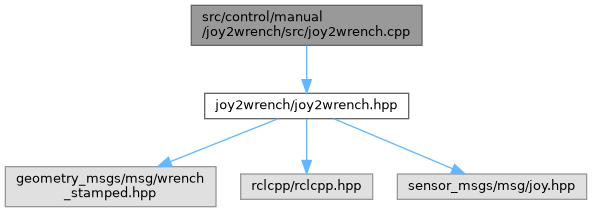
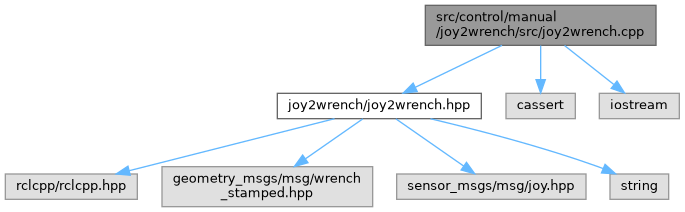
Deploying to gh-pages from @ KyutechUnderWater/kyubic_ros@17a0cab6ebb95fa2d6a1de0d51192da1adee22a0 🚀

diff --git a/joy2wrench_8hpp_source.html b/joy2wrench_8hpp_source.html
@@ -77,32 +77,36 @@ $(function() {
   <div class="headertitle"><div class="title">joy2wrench.hpp</div></div>
 </div><!--header-->
 <div class="contents">
-<a href="joy2wrench_8hpp.html">Go to the documentation of this file.</a><div class="fragment"><div class="line"><a id="l00001" name="l00001"></a><span class="lineno">    1</span><span class="preprocessor">#include &lt;geometry_msgs/msg/wrench_stamped.hpp&gt;</span></div>
-<div class="line"><a id="l00002" name="l00002"></a><span class="lineno">    2</span><span class="preprocessor">#include &lt;rclcpp/rclcpp.hpp&gt;</span></div>
-<div class="line"><a id="l00003" name="l00003"></a><span class="lineno">    3</span><span class="preprocessor">#include &lt;sensor_msgs/msg/joy.hpp&gt;</span></div>
-<div class="line"><a id="l00004" name="l00004"></a><span class="lineno">    4</span> </div>
-<div class="line"><a id="l00005" name="l00005"></a><span class="lineno"><a class="line" href="namespacejoy2wrench.html">    5</a></span><span class="keyword">namespace </span><a class="code hl_namespace" href="namespacejoy2wrench.html">joy2wrench</a></div>
-<div class="line"><a id="l00006" name="l00006"></a><span class="lineno">    6</span>{</div>
+<a href="joy2wrench_8hpp.html">Go to the documentation of this file.</a><div class="fragment"><div class="line"><a id="l00001" name="l00001"></a><span class="lineno">    1</span><span class="preprocessor">#include &lt;rclcpp/rclcpp.hpp&gt;</span></div>
+<div class="line"><a id="l00002" name="l00002"></a><span class="lineno">    2</span> </div>
+<div class="line"><a id="l00003" name="l00003"></a><span class="lineno">    3</span><span class="preprocessor">#include &lt;geometry_msgs/msg/wrench_stamped.hpp&gt;</span></div>
+<div class="line"><a id="l00004" name="l00004"></a><span class="lineno">    4</span><span class="preprocessor">#include &lt;sensor_msgs/msg/joy.hpp&gt;</span></div>
+<div class="line"><a id="l00005" name="l00005"></a><span class="lineno">    5</span> </div>
+<div class="line"><a id="l00006" name="l00006"></a><span class="lineno">    6</span><span class="preprocessor">#include &lt;string&gt;</span></div>
 <div class="line"><a id="l00007" name="l00007"></a><span class="lineno">    7</span> </div>
-<div class="line"><a id="l00008" name="l00008"></a><span class="lineno"><a class="line" href="classjoy2wrench_1_1Joy2WrenchStamped.html">    8</a></span><span class="keyword">class </span><a class="code hl_class" href="classjoy2wrench_1_1Joy2WrenchStamped.html">Joy2WrenchStamped</a> : <span class="keyword">public</span> rclcpp::Node</div>
+<div class="line"><a id="l00008" name="l00008"></a><span class="lineno"><a class="line" href="namespacejoy2wrench.html">    8</a></span><span class="keyword">namespace </span><a class="code hl_namespace" href="namespacejoy2wrench.html">joy2wrench</a></div>
 <div class="line"><a id="l00009" name="l00009"></a><span class="lineno">    9</span>{</div>
-<div class="line"><a id="l00010" name="l00010"></a><span class="lineno">   10</span><span class="keyword">public</span>:</div>
-<div class="line"><a id="l00011" name="l00011"></a><span class="lineno">   11</span>  <span class="keyword">explicit</span> <a class="code hl_function" href="classjoy2wrench_1_1Joy2WrenchStamped.html#ade041bef2d62d58504687bfd9a299675">Joy2WrenchStamped</a>();</div>
-<div class="line"><a id="l00012" name="l00012"></a><span class="lineno">   12</span> </div>
-<div class="line"><a id="l00013" name="l00013"></a><span class="lineno">   13</span><span class="keyword">private</span>:</div>
-<div class="line"><a id="l00014" name="l00014"></a><span class="lineno">   14</span>  <span class="keywordtype">double</span> force_scale;</div>
-<div class="line"><a id="l00015" name="l00015"></a><span class="lineno">   15</span>  <span class="keywordtype">double</span> torque_scale;</div>
-<div class="line"><a id="l00016" name="l00016"></a><span class="lineno">   16</span> </div>
-<div class="line"><a id="l00017" name="l00017"></a><span class="lineno">   17</span>  rclcpp::Publisher&lt;geometry_msgs::msg::WrenchStamped&gt;::SharedPtr pub_;</div>
-<div class="line"><a id="l00018" name="l00018"></a><span class="lineno">   18</span>  rclcpp::Subscription&lt;sensor_msgs::msg::Joy&gt;::SharedPtr sub_;</div>
-<div class="line"><a id="l00019" name="l00019"></a><span class="lineno">   19</span> </div>
-<div class="line"><a id="l00020" name="l00020"></a><span class="lineno">   20</span>  <span class="keywordtype">void</span> _joyCallback(<span class="keyword">const</span> sensor_msgs::msg::Joy::SharedPtr msg);</div>
-<div class="line"><a id="l00021" name="l00021"></a><span class="lineno">   21</span>};</div>
-<div class="line"><a id="l00022" name="l00022"></a><span class="lineno">   22</span> </div>
-<div class="line"><a id="l00023" name="l00023"></a><span class="lineno">   23</span>}  <span class="comment">// namespace joy2wrench</span></div>
-<div class="ttc" id="aclassjoy2wrench_1_1Joy2WrenchStamped_html"><div class="ttname"><a href="classjoy2wrench_1_1Joy2WrenchStamped.html">joy2wrench::Joy2WrenchStamped</a></div><div class="ttdef"><b>Definition:</b> joy2wrench.hpp:9</div></div>
-<div class="ttc" id="aclassjoy2wrench_1_1Joy2WrenchStamped_html_ade041bef2d62d58504687bfd9a299675"><div class="ttname"><a href="classjoy2wrench_1_1Joy2WrenchStamped.html#ade041bef2d62d58504687bfd9a299675">joy2wrench::Joy2WrenchStamped::Joy2WrenchStamped</a></div><div class="ttdeci">Joy2WrenchStamped()</div><div class="ttdef"><b>Definition:</b> joy2wrench.cpp:7</div></div>
-<div class="ttc" id="anamespacejoy2wrench_html"><div class="ttname"><a href="namespacejoy2wrench.html">joy2wrench</a></div><div class="ttdef"><b>Definition:</b> joy2wrench.hpp:6</div></div>
+<div class="line"><a id="l00010" name="l00010"></a><span class="lineno">   10</span> </div>
+<div class="line"><a id="l00011" name="l00011"></a><span class="lineno"><a class="line" href="classjoy2wrench_1_1Joy2WrenchStamped.html">   11</a></span><span class="keyword">class </span><a class="code hl_class" href="classjoy2wrench_1_1Joy2WrenchStamped.html">Joy2WrenchStamped</a> : <span class="keyword">public</span> rclcpp::Node</div>
+<div class="line"><a id="l00012" name="l00012"></a><span class="lineno">   12</span>{</div>
+<div class="line"><a id="l00013" name="l00013"></a><span class="lineno">   13</span><span class="keyword">public</span>:</div>
+<div class="line"><a id="l00014" name="l00014"></a><span class="lineno">   14</span>  <span class="keyword">explicit</span> <a class="code hl_function" href="classjoy2wrench_1_1Joy2WrenchStamped.html#ade041bef2d62d58504687bfd9a299675">Joy2WrenchStamped</a>();</div>
+<div class="line"><a id="l00015" name="l00015"></a><span class="lineno">   15</span> </div>
+<div class="line"><a id="l00016" name="l00016"></a><span class="lineno">   16</span><span class="keyword">private</span>:</div>
+<div class="line"><a id="l00017" name="l00017"></a><span class="lineno">   17</span>  std::string device_name;</div>
+<div class="line"><a id="l00018" name="l00018"></a><span class="lineno">   18</span>  <span class="keywordtype">double</span> force_scale;</div>
+<div class="line"><a id="l00019" name="l00019"></a><span class="lineno">   19</span>  <span class="keywordtype">double</span> torque_scale;</div>
+<div class="line"><a id="l00020" name="l00020"></a><span class="lineno">   20</span> </div>
+<div class="line"><a id="l00021" name="l00021"></a><span class="lineno">   21</span>  rclcpp::Publisher&lt;geometry_msgs::msg::WrenchStamped&gt;::SharedPtr pub_;</div>
+<div class="line"><a id="l00022" name="l00022"></a><span class="lineno">   22</span>  rclcpp::Subscription&lt;sensor_msgs::msg::Joy&gt;::SharedPtr sub_;</div>
+<div class="line"><a id="l00023" name="l00023"></a><span class="lineno">   23</span> </div>
+<div class="line"><a id="l00024" name="l00024"></a><span class="lineno">   24</span>  <span class="keywordtype">void</span> _joyCallback(<span class="keyword">const</span> sensor_msgs::msg::Joy::SharedPtr msg);</div>
+<div class="line"><a id="l00025" name="l00025"></a><span class="lineno">   25</span>};</div>
+<div class="line"><a id="l00026" name="l00026"></a><span class="lineno">   26</span> </div>
+<div class="line"><a id="l00027" name="l00027"></a><span class="lineno">   27</span>}  <span class="comment">// namespace joy2wrench</span></div>
+<div class="ttc" id="aclassjoy2wrench_1_1Joy2WrenchStamped_html"><div class="ttname"><a href="classjoy2wrench_1_1Joy2WrenchStamped.html">joy2wrench::Joy2WrenchStamped</a></div><div class="ttdef"><b>Definition:</b> joy2wrench.hpp:12</div></div>
+<div class="ttc" id="aclassjoy2wrench_1_1Joy2WrenchStamped_html_ade041bef2d62d58504687bfd9a299675"><div class="ttname"><a href="classjoy2wrench_1_1Joy2WrenchStamped.html#ade041bef2d62d58504687bfd9a299675">joy2wrench::Joy2WrenchStamped::Joy2WrenchStamped</a></div><div class="ttdeci">Joy2WrenchStamped()</div><div class="ttdef"><b>Definition:</b> joy2wrench.cpp:10</div></div>
+<div class="ttc" id="anamespacejoy2wrench_html"><div class="ttname"><a href="namespacejoy2wrench.html">joy2wrench</a></div><div class="ttdef"><b>Definition:</b> joy2wrench.hpp:9</div></div>
 </div><!-- fragment --></div><!-- contents -->
 <!-- start footer part -->
 <hr class="footer"/><address class="footer"><small>

diff --git a/joy2wrench_8hpp.html b/joy2wrench_8hpp.html
@@ -80,18 +80,20 @@ $(function() {
   <div class="headertitle"><div class="title">joy2wrench.hpp File Reference</div></div>
 </div><!--header-->
 <div class="contents">
-<div class="textblock"><code>#include &lt;geometry_msgs/msg/wrench_stamped.hpp&gt;</code><br />
-<code>#include &lt;rclcpp/rclcpp.hpp&gt;</code><br />
+<div class="textblock"><code>#include &lt;rclcpp/rclcpp.hpp&gt;</code><br />
+<code>#include &lt;geometry_msgs/msg/wrench_stamped.hpp&gt;</code><br />
 <code>#include &lt;sensor_msgs/msg/joy.hpp&gt;</code><br />
+<code>#include &lt;string&gt;</code><br />
 </div><div class="textblock"><div class="dynheader">
 Include dependency graph for joy2wrench.hpp:</div>
 <div class="dyncontent">
 <div class="center"><img src="joy2wrench_8hpp__incl.png" border="0" usemap="#asrc_2control_2manual_2joy2wrench_2include_2joy2wrench_2joy2wrench_8hpp" alt=""/></div>
 <map name="asrc_2control_2manual_2joy2wrench_2include_2joy2wrench_2joy2wrench_8hpp" id="asrc_2control_2manual_2joy2wrench_2include_2joy2wrench_2joy2wrench_8hpp">
-<area shape="rect" title=" " alt="" coords="203,5,411,60"/>
-<area shape="rect" title=" " alt="" coords="5,108,216,148"/>
-<area shape="rect" title=" " alt="" coords="241,115,373,141"/>
-<area shape="rect" title=" " alt="" coords="397,115,587,141"/>
+<area shape="rect" title=" " alt="" coords="275,5,483,60"/>
+<area shape="rect" title=" " alt="" coords="5,115,137,141"/>
+<area shape="rect" title=" " alt="" coords="162,108,373,148"/>
+<area shape="rect" title=" " alt="" coords="397,115,586,141"/>
+<area shape="rect" title=" " alt="" coords="610,115,669,141"/>
 </map>
 </div>
 </div><div class="textblock"><div class="dynheader">

diff --git a/joy2wrench_8cpp.html b/joy2wrench_8cpp.html
@@ -81,16 +81,21 @@ $(function() {
 </div><!--header-->
 <div class="contents">
 <div class="textblock"><code>#include &quot;<a class="el" href="joy2wrench_8hpp_source.html">joy2wrench/joy2wrench.hpp</a>&quot;</code><br />
+<code>#include &lt;cassert&gt;</code><br />
+<code>#include &lt;iostream&gt;</code><br />
 </div><div class="textblock"><div class="dynheader">
 Include dependency graph for joy2wrench.cpp:</div>
 <div class="dyncontent">
 <div class="center"><img src="joy2wrench_8cpp__incl.png" border="0" usemap="#asrc_2control_2manual_2joy2wrench_2src_2joy2wrench_8cpp" alt=""/></div>
 <map name="asrc_2control_2manual_2joy2wrench_2src_2joy2wrench_8cpp" id="asrc_2control_2manual_2joy2wrench_2src_2joy2wrench_8cpp">
-<area shape="rect" title=" " alt="" coords="191,5,422,45"/>
-<area shape="rect" href="joy2wrench_8hpp.html" title=" " alt="" coords="205,93,409,119"/>
-<area shape="rect" title=" " alt="" coords="5,167,216,207"/>
-<area shape="rect" title=" " alt="" coords="241,174,373,199"/>
-<area shape="rect" title=" " alt="" coords="397,174,587,199"/>
+<area shape="rect" title=" " alt="" coords="425,5,656,45"/>
+<area shape="rect" href="joy2wrench_8hpp.html" title=" " alt="" coords="277,93,481,119"/>
+<area shape="rect" title=" " alt="" coords="506,93,575,119"/>
+<area shape="rect" title=" " alt="" coords="599,93,679,119"/>
+<area shape="rect" title=" " alt="" coords="5,174,137,199"/>
+<area shape="rect" title=" " alt="" coords="162,167,373,207"/>
+<area shape="rect" title=" " alt="" coords="397,174,586,199"/>
+<area shape="rect" title=" " alt="" coords="610,174,669,199"/>
 </map>
 </div>
 </div><table class="memberdecls">
